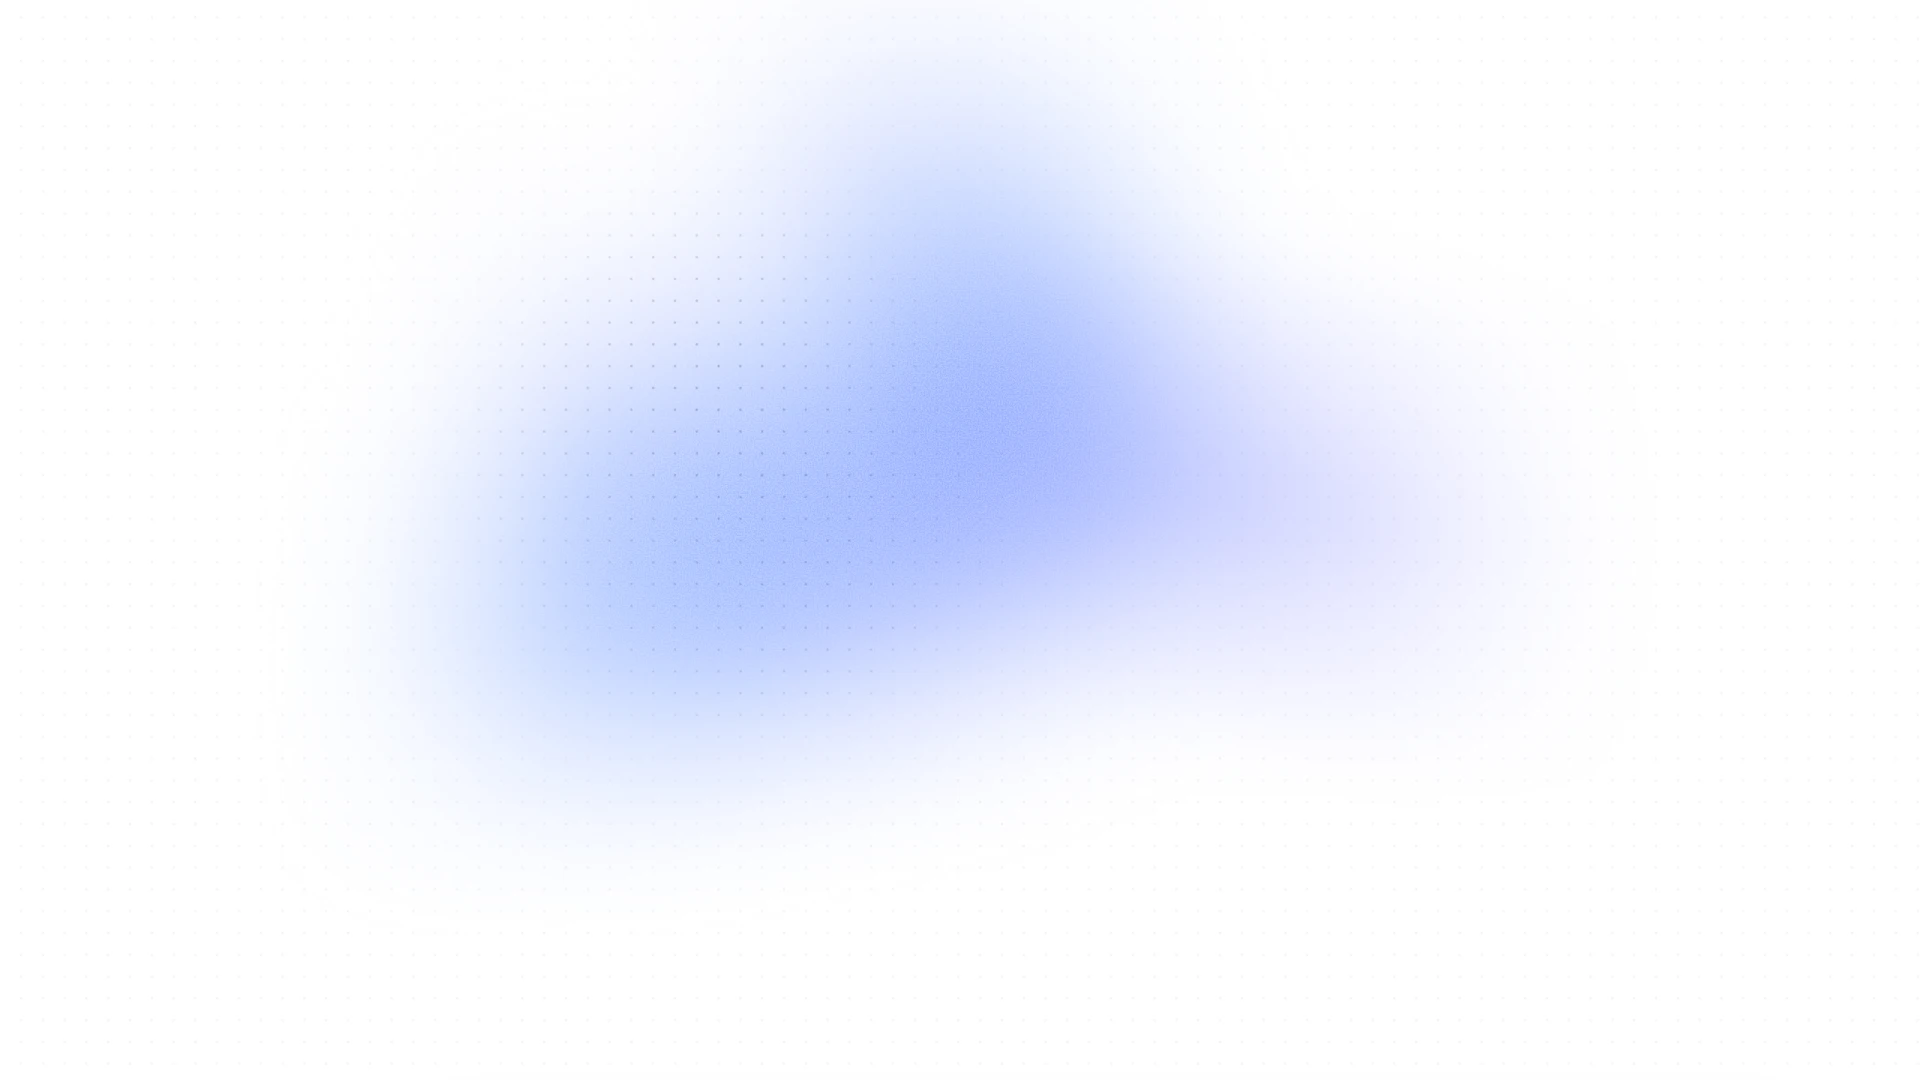
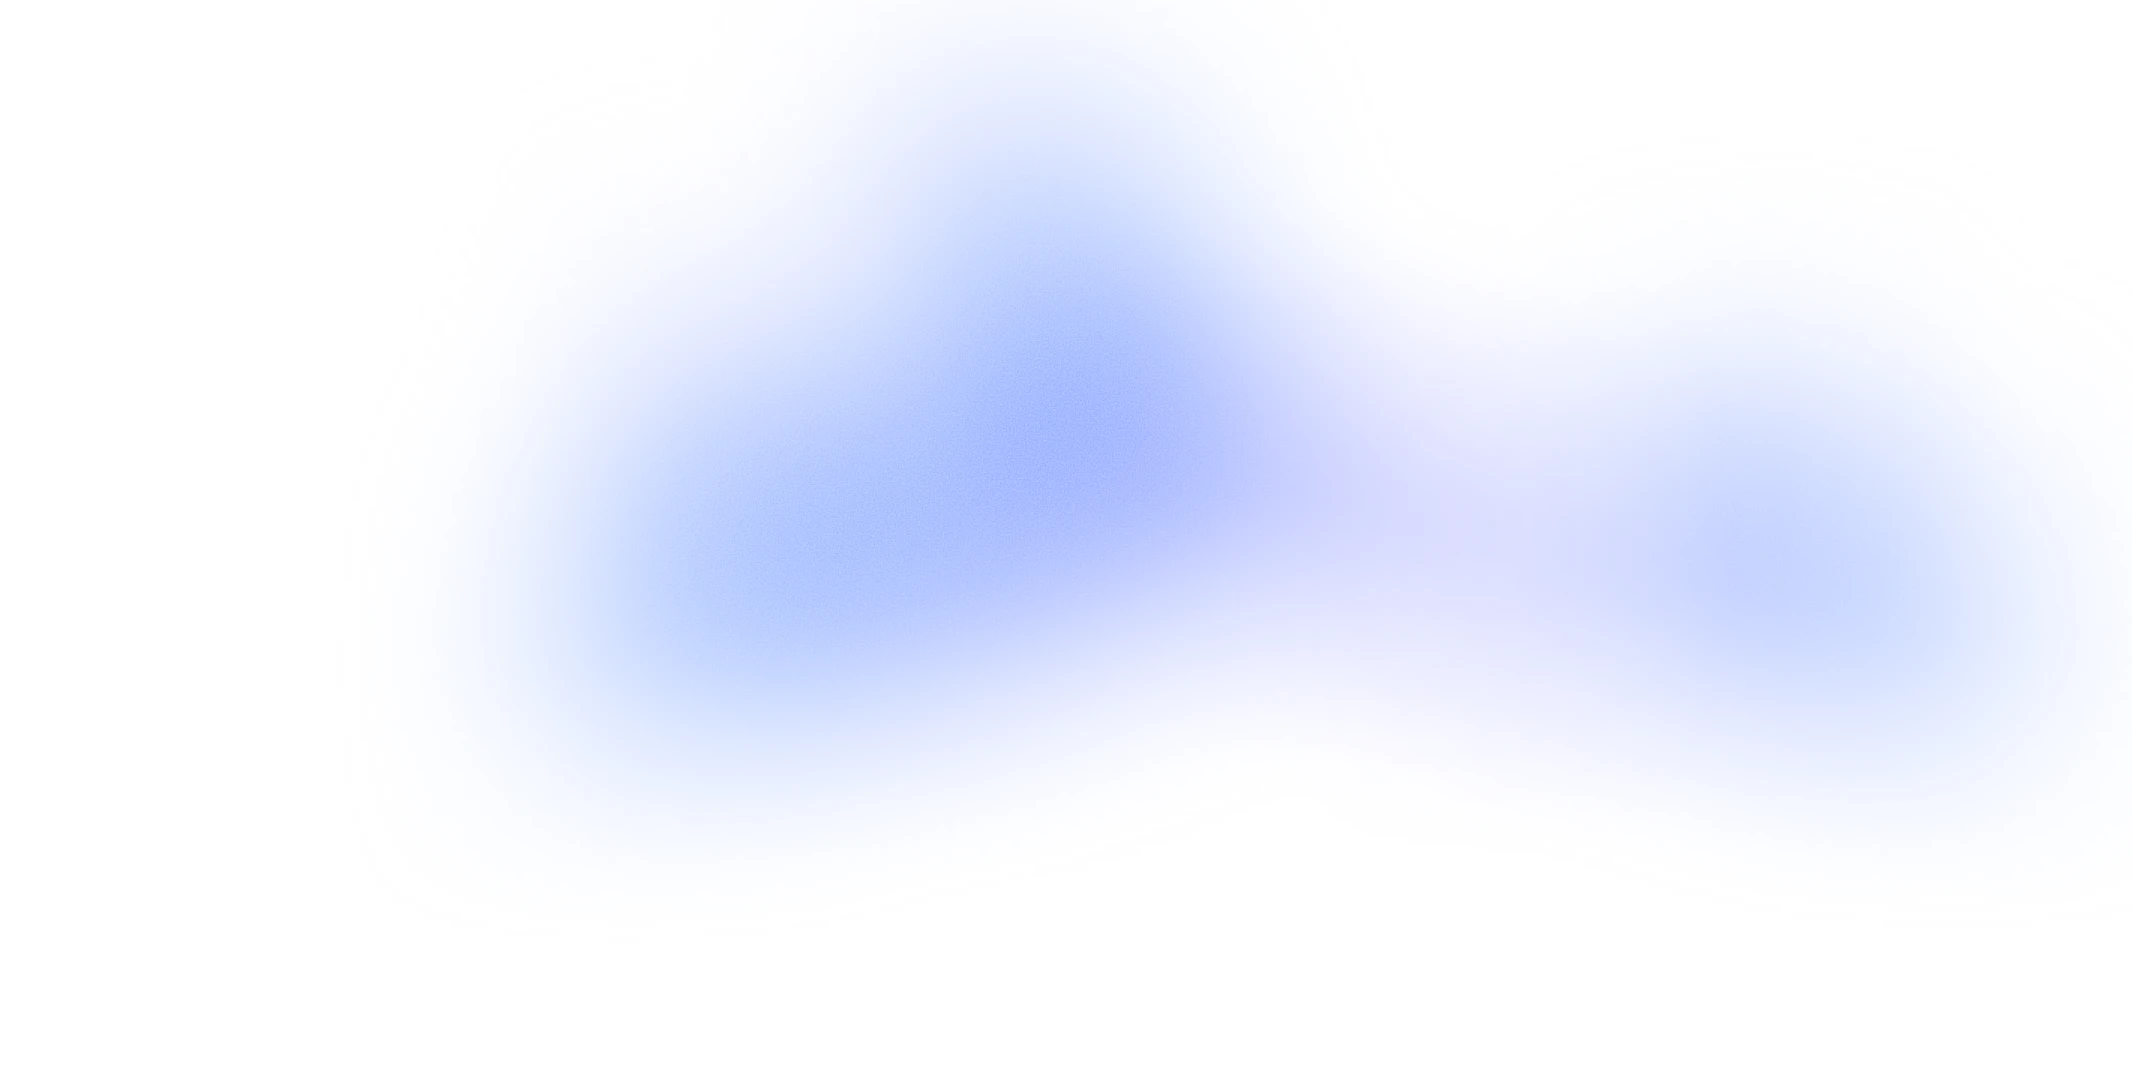
update

Changed region(s): [[0.75, 0.3361, 0.9375, 0.7028]]

diff --git a/js/main.js b/js/main.js
@@ -1,29 +1,88 @@
-// animation
-const sections = document.querySelectorAll(".scroll-section");
+// ===============================
+// DOT GRID BACKGROUND ANIMATION
+// ===============================
 
-const sectionObserver = new IntersectionObserver(
-  (entries) => {
-    entries.forEach((entry) => {
+const canvas = document.getElementById("dotGrid");
+const ctx = canvas.getContext("2d");
 
-      if (entry.isIntersecting) {
-        entry.target.classList.add("show");
-      } else {
-        entry.target.classList.remove("show");
-      }
+let width;
+let height;
+let dots = [];
 
-    });
-  },
-  {
-    threshold: 0.2,
+const spacing = 18;
+const glowRadius = 300;
+
+const mouse = {
+  x: -1000,
+  y: -1000,
+};
+
+// Create canvas and dots
+function initCanvas() {
+  width = canvas.width = window.innerWidth;
+  height = canvas.height = window.innerHeight;
+
+  dots = [];
+
+  for (let x = 0; x < width; x += spacing) {
+    for (let y = 0; y < height; y += spacing) {
+      dots.push({ x, y });
+    }
   }
-);
+}
 
-sections.forEach((section) => {
-  sectionObserver.observe(section);
+// Mouse movement
+window.addEventListener("mousemove", (e) => {
+  mouse.x = e.clientX;
+  mouse.y = e.clientY;
 });
 
+// Reset mouse when leaving screen
+window.addEventListener("mouseleave", () => {
+  mouse.x = -1000;
+  mouse.y = -1000;
+});
 
-// steps
+// Resize canvas
+window.addEventListener("resize", initCanvas);
+
+// Animate dots
+function animateDots() {
+  ctx.clearRect(0, 0, width, height);
+
+  dots.forEach((dot) => {
+    const dx = mouse.x - dot.x;
+    const dy = mouse.y - dot.y;
+
+    const distance = Math.sqrt(dx * dx + dy * dy);
+
+    let opacity = 0.08;
+
+    if (distance < glowRadius) {
+      opacity = 1 - distance / glowRadius;
+    }
+
+    ctx.beginPath();
+    ctx.arc(dot.x, dot.y, 1, 0, Math.PI * 2);
+
+    ctx.fillStyle = `rgba(0, 0, 0, ${opacity})`;
+
+    ctx.fill();
+  });
+
+  requestAnimationFrame(animateDots);
+}
+
+// Start animation
+initCanvas();
+animateDots();
+
+
+
+// ===============================
+// STEP ITEM SCROLL ANIMATION
+// ===============================
+
 const items = document.querySelectorAll(".step-item");
 
 const stepObserver = new IntersectionObserver(
@@ -43,6 +102,37 @@ const stepObserver = new IntersectionObserver(
   }
 );
 
+// Observe all step items
 items.forEach((item) => {
   stepObserver.observe(item);
+});
+
+
+
+// ===============================
+// SECTION SCROLL ANIMATION
+// ===============================
+
+const sections = document.querySelectorAll(".scroll-section");
+
+const sectionObserver = new IntersectionObserver(
+  (entries) => {
+    entries.forEach((entry) => {
+
+      if (entry.isIntersecting) {
+        entry.target.classList.add("show");
+      } else {
+        entry.target.classList.remove("show");
+      }
+
+    });
+  },
+  {
+    threshold: 0.2,
+  }
+);
+
+// Observe all sections
+sections.forEach((section) => {
+  sectionObserver.observe(section);
 });

diff --git a/css/_section.scss b/css/_section.scss
@@ -13,9 +13,34 @@
 }
 
 .section-bg {
-  background-image: url(../img/banner-bg.webp);
+  background-color: hsla(333, 0%, 100%, 1);
+
+  background-image:
+    radial-gradient(circle at 0% 0%,
+      hsla(64, 82%, 77%, 0.35) 3%,
+      transparent 40%),
+    radial-gradient(circle at 20% 0%,
+      hsla(5, 77%, 74%, 0.35) 3%,
+      transparent 40%),
+    radial-gradient(circle at 40% 0%,
+      hsla(315, 77%, 74%, 0.35) 3%,
+      transparent 40%),
+    radial-gradient(circle at 60% 0%,
+      hsla(256, 77%, 74%, 0.35) 3%,
+      transparent 40%),
+    radial-gradient(circle at 80% 0%,
+      hsla(191, 77%, 74%, 0.35) 3%,
+      transparent 40%),
+    radial-gradient(circle at 100% 0%,
+      hsla(152, 77%, 74%, 0.35) 3%,
+      transparent 40%),
+    url("../img/banner-bg.webp");
+
   background-position: center;
   background-size: cover;
+  background-repeat: no-repeat;
+
+  background-blend-mode: normal;
 }
 
 .top-padding-mb {
@@ -37,6 +62,7 @@
   display: flex;
   align-items: center;
   justify-content: center;
+
   @media (min-width: 992px) {
     width: 310px;
   }
@@ -64,7 +90,8 @@
   font-size: 20px;
   color: #424BFF;
 }
-.center-position{
+
+.center-position {
   display: flex;
   align-items: center;
   justify-content: center;

diff --git a/css/style.css b/css/style.css
@@ -507,9 +507,12 @@ h4 {
 }
 
 .section-bg {
-  background-image: url(../img/banner-bg.webp);
+  background-color: hsl(333, 0%, 100%);
+  background-image: radial-gradient(circle at 0% 0%, hsla(64, 82%, 77%, 0.35) 3%, transparent 40%), radial-gradient(circle at 20% 0%, hsla(5, 77%, 74%, 0.35) 3%, transparent 40%), radial-gradient(circle at 40% 0%, hsla(315, 77%, 74%, 0.35) 3%, transparent 40%), radial-gradient(circle at 60% 0%, hsla(256, 77%, 74%, 0.35) 3%, transparent 40%), radial-gradient(circle at 80% 0%, hsla(191, 77%, 74%, 0.35) 3%, transparent 40%), radial-gradient(circle at 100% 0%, hsla(152, 77%, 74%, 0.35) 3%, transparent 40%), url("../img/banner-bg.webp");
   background-position: center;
   background-size: cover;
+  background-repeat: no-repeat;
+  background-blend-mode: normal;
 }
 
 .top-padding-mb {
@@ -579,6 +582,7 @@ canvas {
     display: block;
     top: 0;
     left: 0;
+    z-index: 3;
   }
 }
 .box-anima {

diff --git a/index.html b/index.html
@@ -83,7 +83,7 @@
     </nav>
   </div>
 
-  <section class="section-h section-bg top-padding-mb">
+  <section class="section-h section-bg top-padding-mb scroll-section">
     <div class="container">
       <div class="row d-flex align-items-centerw">
         <div class="col-lg-6 text-center text-lg-start">
@@ -273,7 +273,9 @@
 
             </div>
           </div>
-          <div class="col-lg-6">s</div>
+          <div class="col-lg-6">
+            di
+          </div>
         </div>
       </div>
     </div>

diff --git a/css/_animation.scss b/css/_animation.scss
@@ -11,6 +11,7 @@ canvas {
         display: block;
         top: 0;
         left: 0;
+        z-index: 3;
     }
 }
 